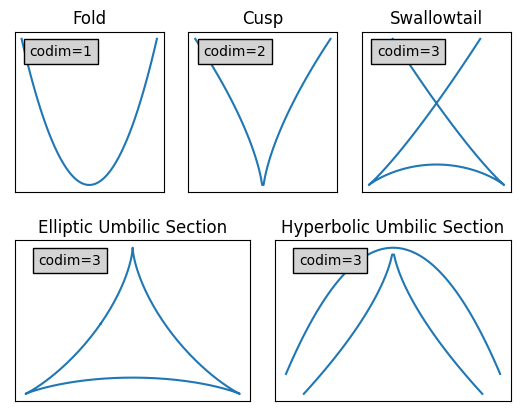
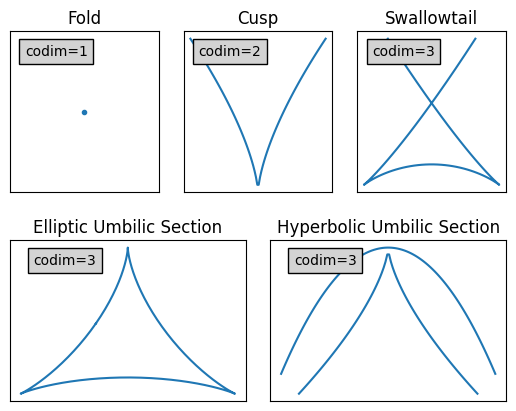
fold catastrophe correction

diff --git a/catastrophes.py b/catastrophes.py
@@ -9,9 +9,7 @@ ax4 = plt.subplot(grid[1, 0:3])
 ax5 = plt.subplot(grid[1, 3:6])
 axes = [ax1, ax2, ax3, ax4, ax5]
 
-
-x = np.linspace(-1, 1, 100)
-ax1.plot(x, x ** 2)
+ax1.plot(0, 0, '.')
 
 x = np.linspace(-1, 1, 100)
 y = np.abs(x) ** (2/3)
@@ -48,5 +46,4 @@ for i in range(5):
     axes[i].set_title(titles[i])
     axes[i].text(.1, .85, f'codim={codim[i]}', bbox=dict(facecolor='lightgrey'), transform=axes[i].transAxes)
 
-plt.savefig('images/catastrophes.png', bbox_inches='tight')
 plt.show()
